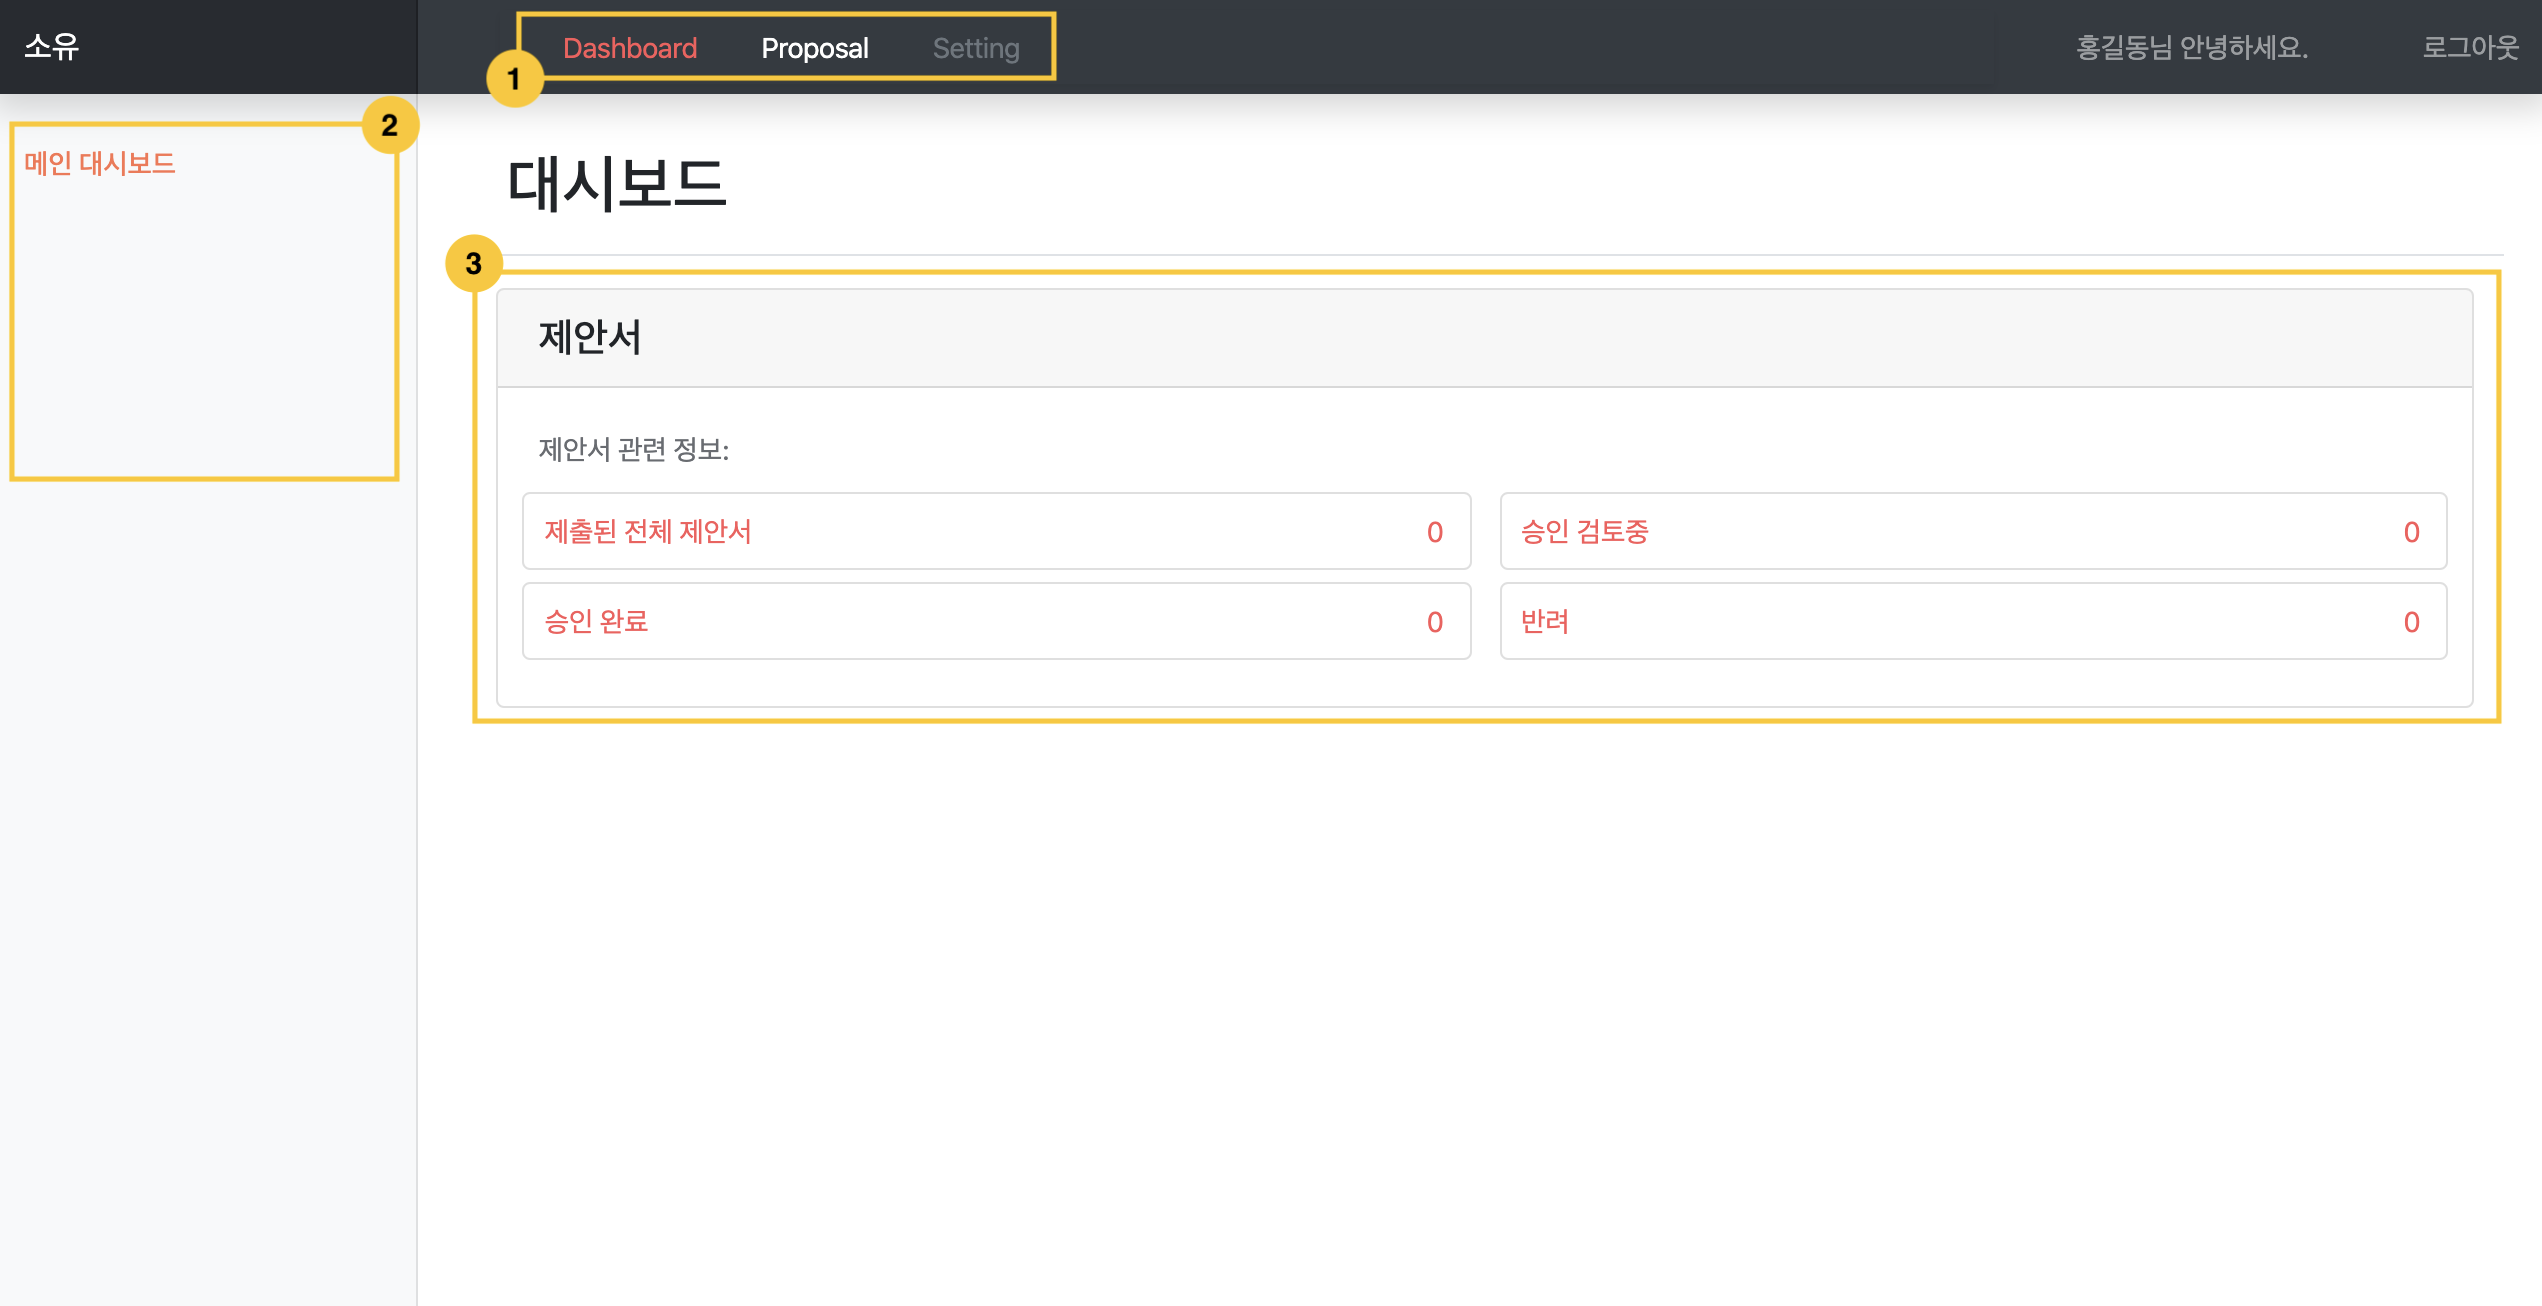
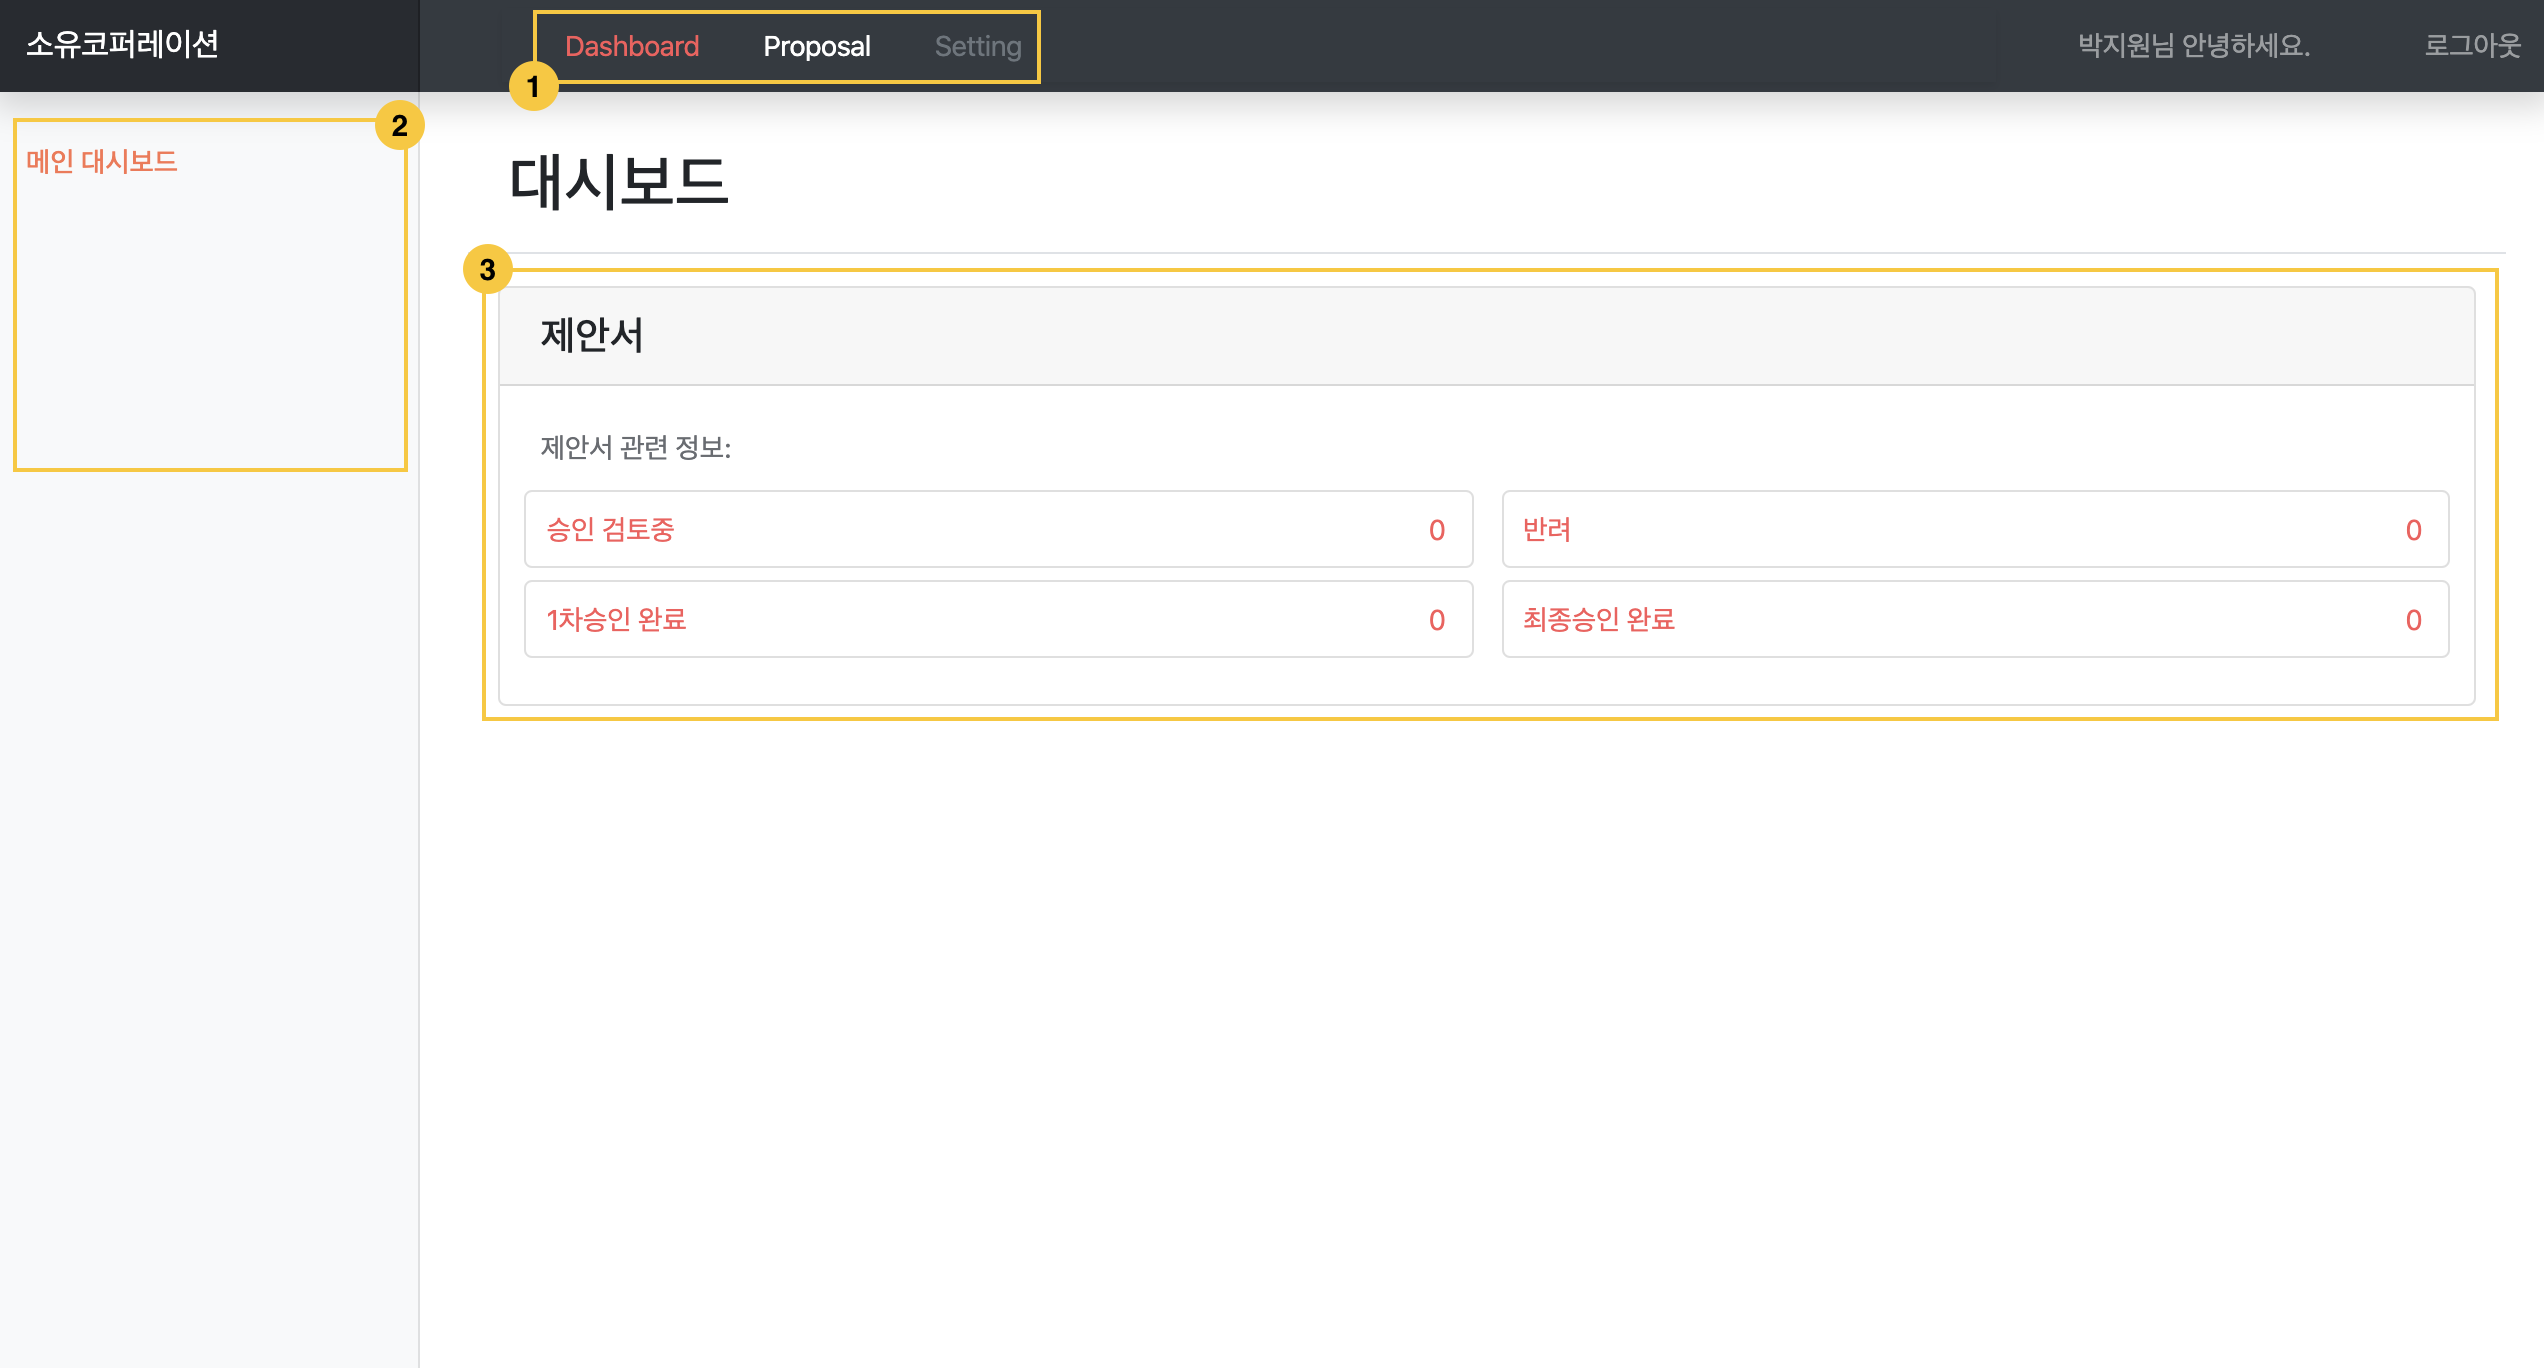
Modify dashboard part

Changed region(s): [[0.0, 0.0, 1.0, 0.5513]]

diff --git a/_posts/2020-2-21-Write-Proposal.md b/_posts/2020-2-21-Write-Proposal.md
@@ -25,10 +25,11 @@ title: (처음 시작하기) 2. 제안서 작성하기
     - `1번`은 '메인 네비게이션 바'로 대시보드, 제안서 작성 등 **메인 메뉴를 이동**할 수 있습니다.
     - `2번`은 '서브 네비게이션 바'로 메인 메뉴에 포함된 **서브 메뉴를 이동**할 수 있습니다.
     - `3번`에서는 대시보드 안에서 제안서에 대한 정보를 간략하게 볼 수 있습니다. 이 정보는 **한 회사 내에서 제출한 제안서 전체**와 관련되어 있습니다.
-        - *제출된 전체 제안서*: 제출된 모든 제안서 수를 나타냅니다.
         - *승인 검토중*: 제출되어 승인 검토중에 있는 제안서 수를 나타냅니다.
-        - *승인 완료*: 검토 결과 승인 완료된 제안서 수를 나타냅니다.
         - *반려*: 검토 결과 반려된 제안서 수를 나타냅니다.
+        - *1차승인 완료*: 검토 결과 1차승인 완료된 제안서 수를 나타냅니다.
+        - *최종승인 완료*: 검토 결과 최종승인 완료된 제안서 수를 나타냅니다.
+    - **검토 후 1차 승인 -> 최종 승인** 순서로 진행됩니다.
 
 3. 위에 **Proposal** 항목을 클릭하면 제안서 작성 대시보드가 나타납니다.
 
